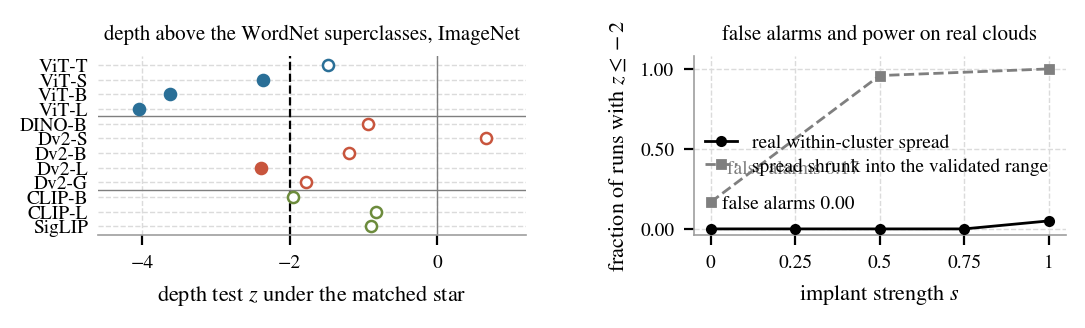
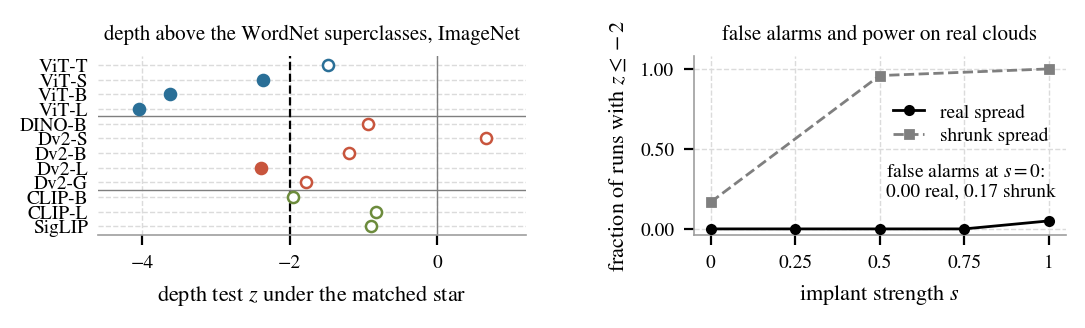
v3 Figure 4(b): short legend labels at the right, one annotation for the false-alarm rates at s = 0; v3 recompiled and exported; sweep 183/183
Claude-Session: https://claude.ai/code/session_01X3uQtPxuL37VCSgmwvB8QH

diff --git a/ICLR2027/figures/make_fig_depth.py b/ICLR2027/figures/make_fig_depth.py
@@ -155,14 +155,13 @@ ax = axes[1]
 d64 = pd.read_csv(RES/"expR64b_wn30.csv"); dep = d64[(d64.kind == "depth") & (d64.partition == "rand6") & (d64.s != "real")].copy(); dep["s"] = dep.s.astype(float)
 tg = d64[(d64.kind == "depth") & (d64.partition == "rand6_t06")].copy(); tg["s"] = tg.s.astype(float)
 pr = dep.groupby("s").z.apply(lambda z: (z <= -2).mean()); pt = tg.groupby("s").z.apply(lambda z: (z <= -2).mean())
-ax.plot(pr.index, pr.values, "-o", color="k", ms=3, lw=1.0, label="real within-cluster spread", zorder=3)
-ax.plot(pt.index, pt.values, "--s", color=GRAY, ms=3, lw=1.0, label="spread shrunk into the validated range", zorder=3)
-ax.annotate(f"false alarms {pr.loc[0.0]:.2f}", (0, pr.loc[0.0]), xytext=(4, 6), textcoords="offset points", fontsize=7, color="k", ha="left", va="bottom")
-ax.annotate(f"false alarms {pt.loc[0.0]:.2f}", (0, pt.loc[0.0]), xytext=(6, 9), textcoords="offset points", fontsize=7, color=GRAY, ha="left", va="bottom")
+ax.plot(pr.index, pr.values, "-o", color="k", ms=3, lw=1.0, label="real spread", zorder=3)
+ax.plot(pt.index, pt.values, "--s", color=GRAY, ms=3, lw=1.0, label="shrunk spread", zorder=3)
+ax.text(0.52, 0.30, f"false alarms at $s{{=}}0$:\n{pr.loc[0.0]:.2f} real, {pt.loc[0.0]:.2f} shrunk", fontsize=7, color="k", ha="left", va="center", linespacing=1.15)
 ax.set_xticks([0, 0.25, 0.5, 0.75, 1]); ax.set_xticklabels(["0", "0.25", "0.5", "0.75", "1"], fontsize=7); ax.set_xlabel("implant strength $s$")
 ax.set_ylim(-0.04, 1.08); ax.set_yticks([0, 0.5, 1]); ax.set_yticklabels(["0.00", "0.50", "1.00"], fontsize=7); ax.set_ylabel("fraction of runs with $z\\leq-2$")
 ax.set_title("false alarms and power on real clouds", fontsize=7.5)
-ax.legend(frameon=False, fontsize=7, loc="center right", bbox_to_anchor=(1.0, 0.45), handlelength=1.6, labelspacing=0.3)
+ax.legend(frameon=False, fontsize=7, loc="center right", bbox_to_anchor=(1.0, 0.62), handlelength=1.6, labelspacing=0.3)
 for sp in ("right", "top"): ax.spines[sp].set_visible(False)
 fig.subplots_adjust(left=0.11, right=0.99, top=0.88, bottom=0.24, wspace=0.42)
 for o in (HERE, HERE.parent/"iclr2027"/"figures"): fig.savefig(o/"fig_depth_test.pdf"); fig.savefig(o/"fig_depth_test.png", dpi=200)
